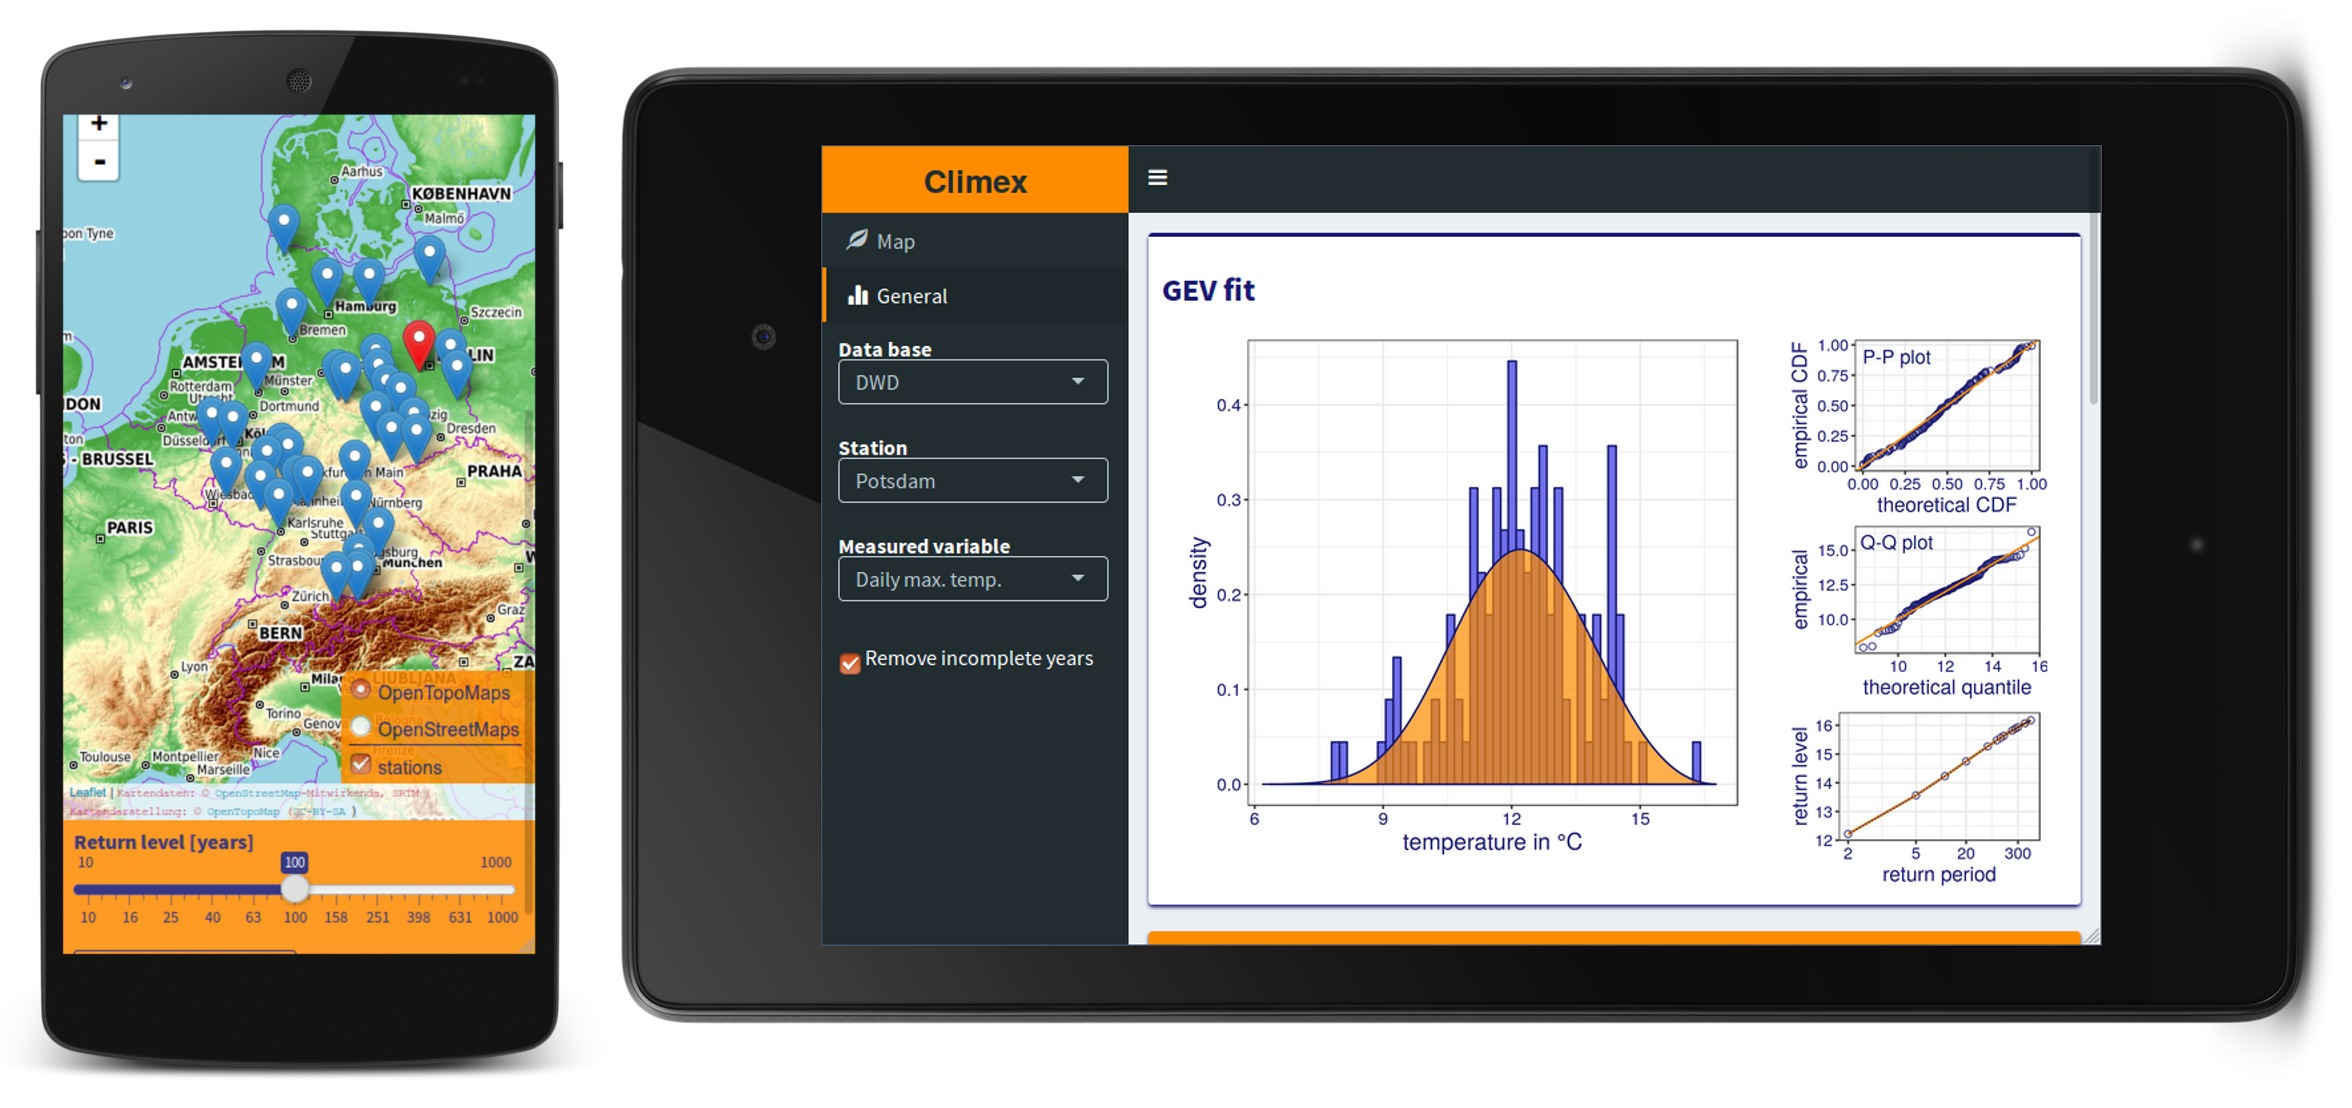
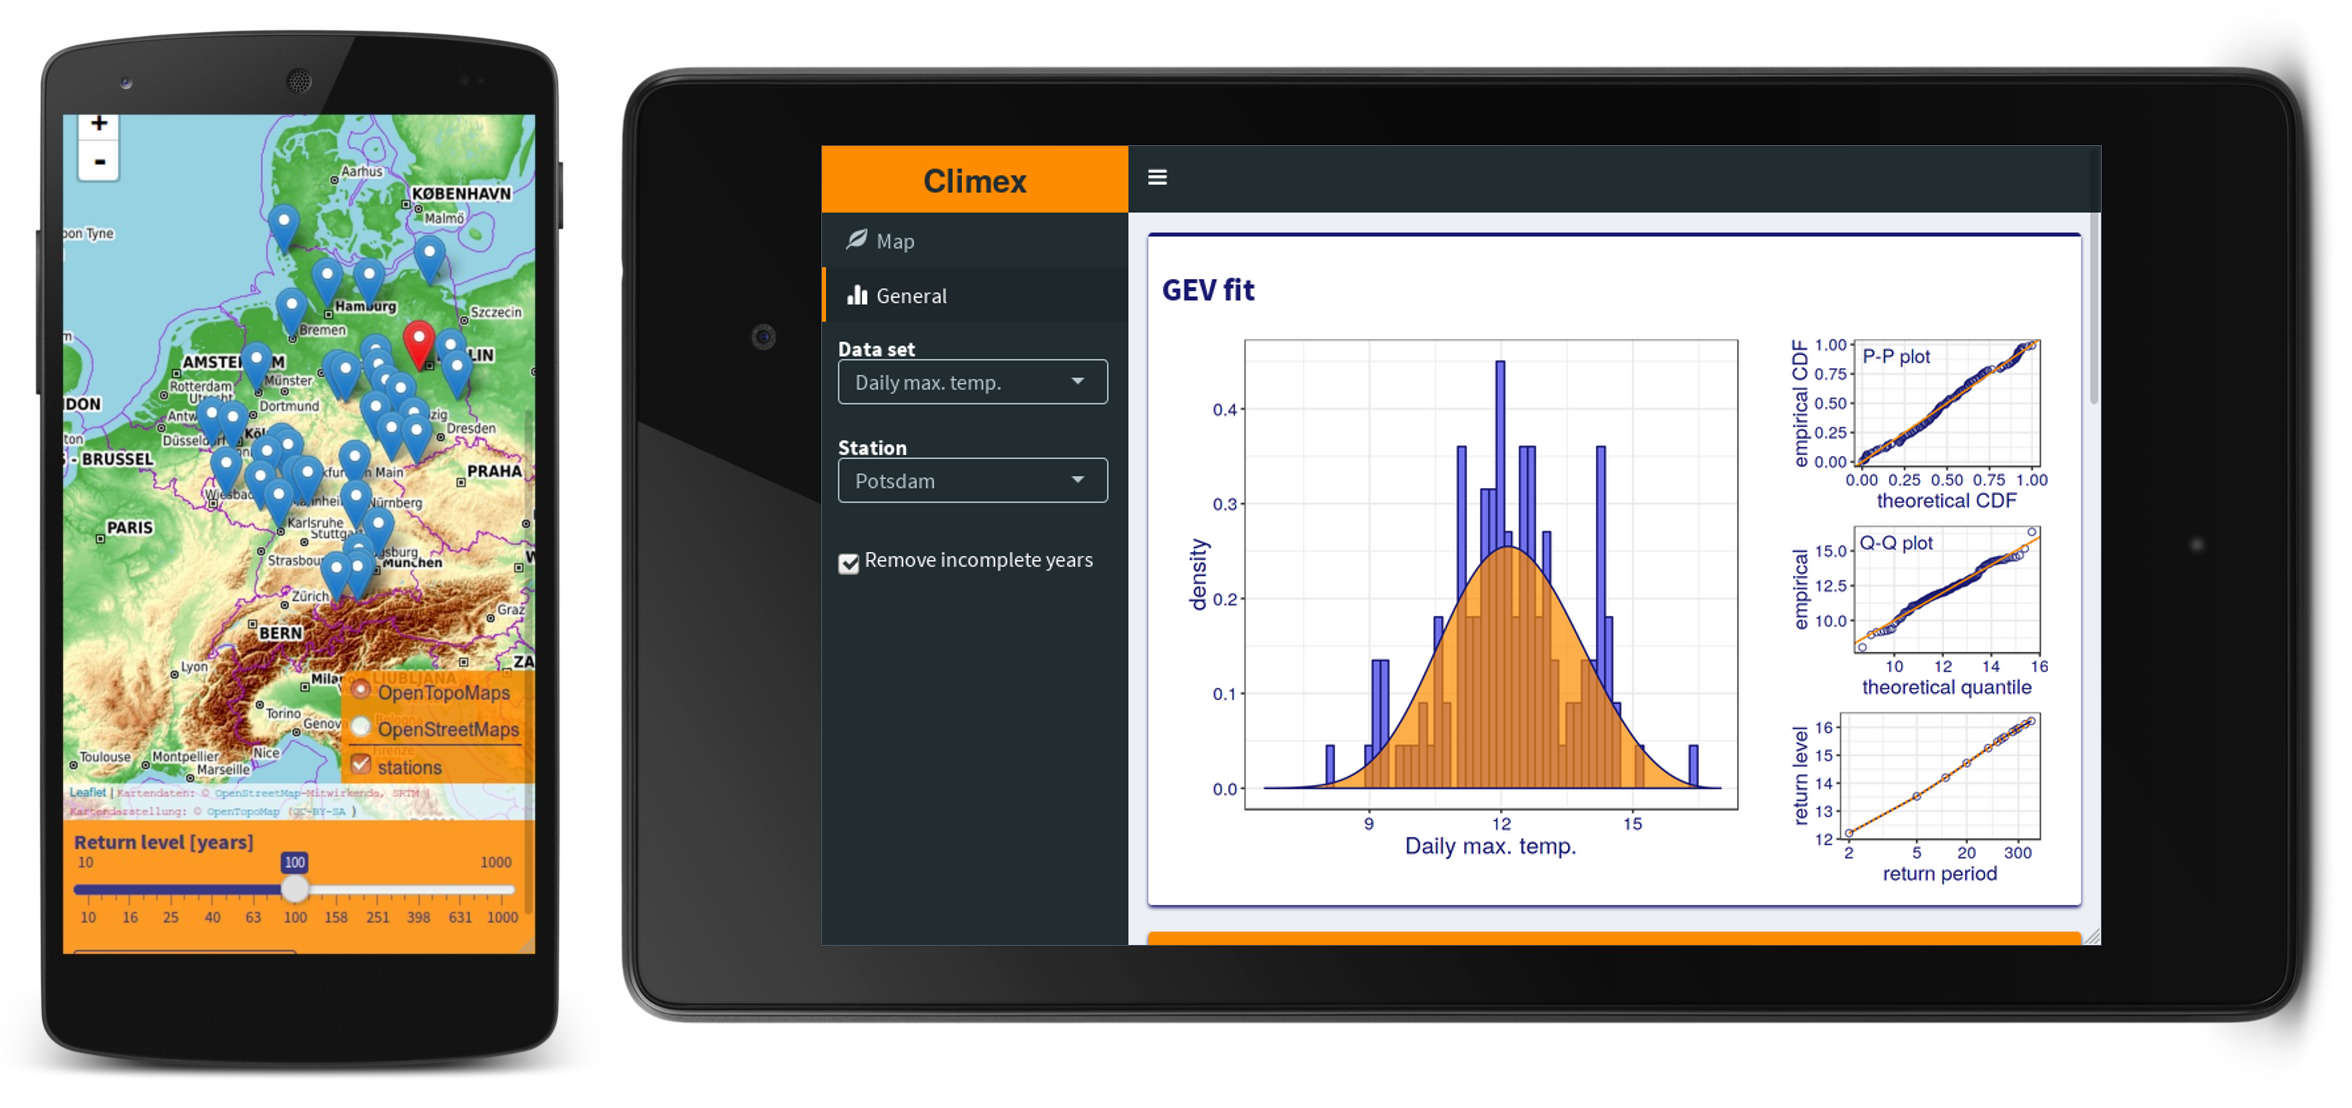
updating pictures in README + typo

diff --git a/README.md b/README.md
@@ -1,4 +1,4 @@
-l# Features
+# Features
 ![leaflet map to handle a lot of station data](res/climex_map.jpeg)
 ![control all the different steps involved in the extreme value analysis](res/climex_time-series.png)
 ![explore the station data with your mobile device](res/climex_mobile.jpeg)
